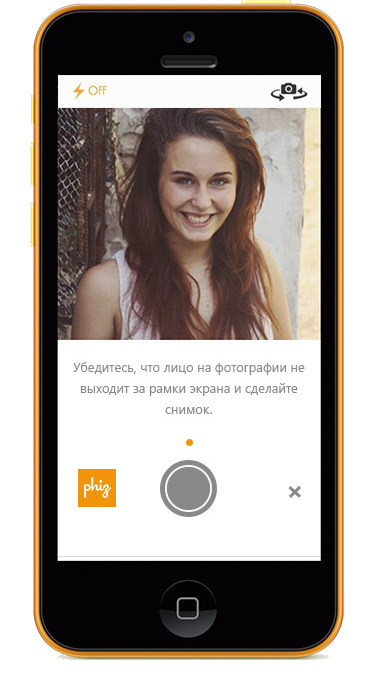
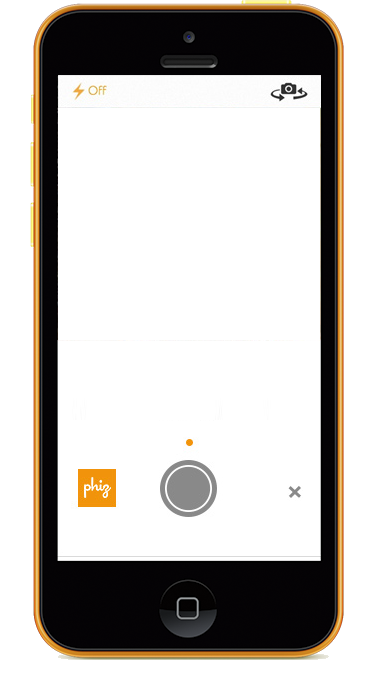
fixed

Changed region(s): [[0.1471, 0.15, 0.8529, 0.6]]

diff --git a/app/assets/stylesheets/style.scss b/app/assets/stylesheets/style.scss
@@ -821,3 +821,27 @@ a {
     }
   }
 }
+
+.photo_block {
+  width: 374px;
+  height: 700px;
+  padding: 108px 54px 0 58px;
+  background: image-url("img_bun_mob.png") no-repeat;
+  box-sizing: border-box;
+}
+.photo_block img{
+  float: none;
+  width: 262px;
+  height: 232px;
+  margin-bottom: 12px;
+}
+.photo_block p {
+  height: 80px;
+  padding: 0 10px;
+  font-size: 14px;
+  line-height: 20px;
+  color: #898989;
+  font-family: Sergoe UI, Arial, Helvetica, sans-serif;
+  text-align: center;
+  overflow: hidden;
+}
